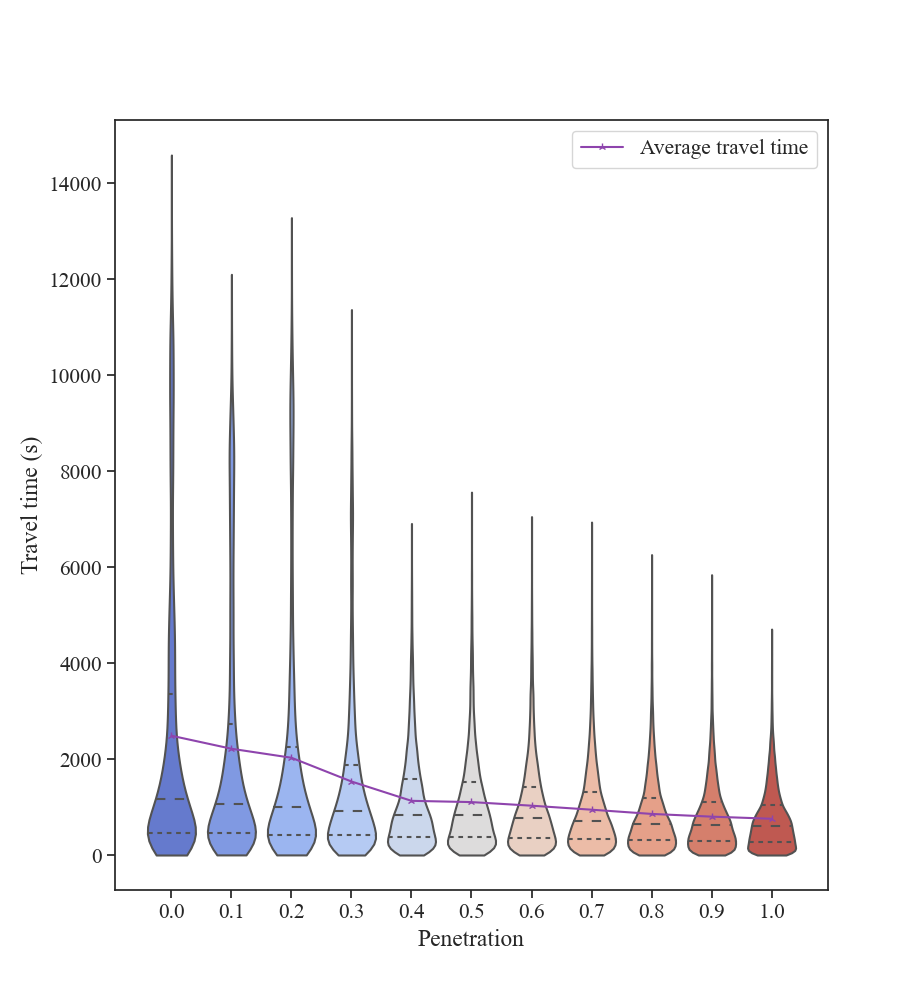
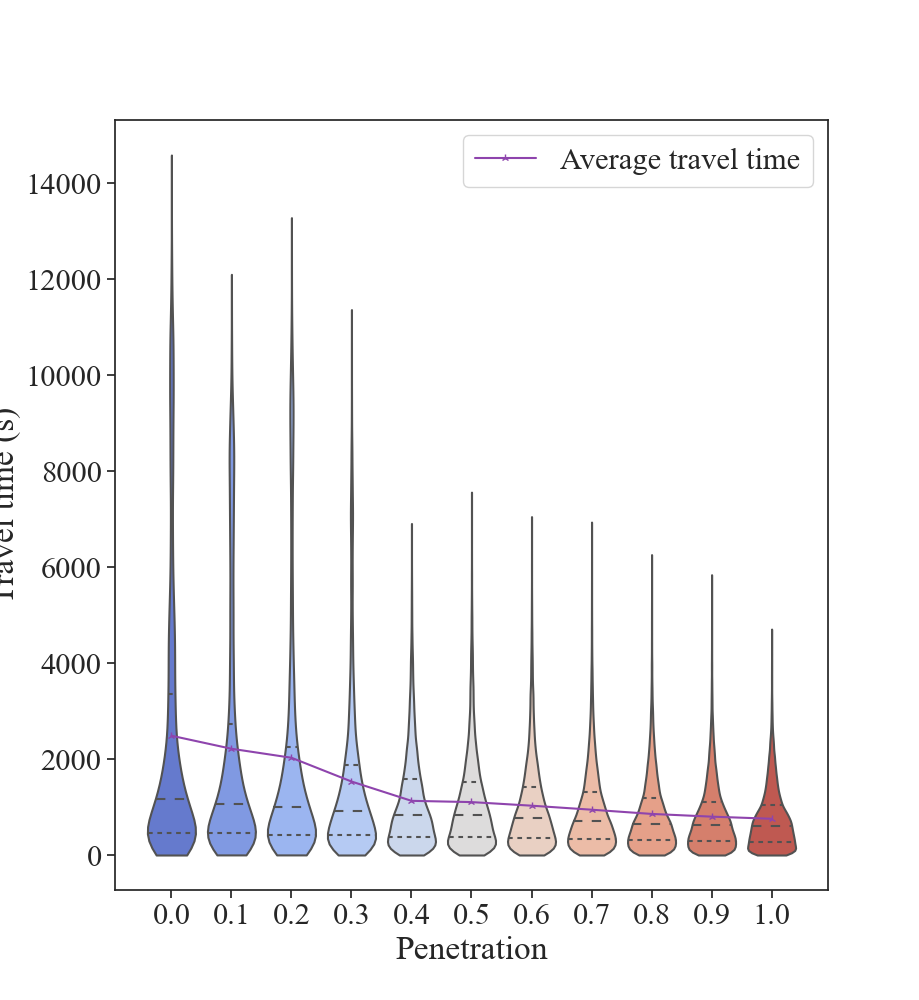
modify some pics

diff --git a/SUMOFiles/edgesDensity/pltEdgesDensity.py b/SUMOFiles/edgesDensity/pltEdgesDensity.py
@@ -3,7 +3,7 @@ from turtle import color
 import xml.etree.ElementTree as ET
 from matplotlib import pyplot as plt
 # plt.style.use('bmh')
-plt.rc('font',family='Times New Roman') 
+plt.rc('font',family='Times New Roman', size=20) 
 from collections import defaultdict
 import numpy as np
 
@@ -94,16 +94,16 @@ def pltshow(npRandomEMD, npARNMEMD, npPPPEMD):
     shadow1 = plt.fill_between(xx, zeroLine, diff_1, color='#45aaf2', alpha=0.5)
     plt.plot(xx, diff_2, color='#e67e22')
     shadow2 = plt.fill_between(xx, zeroLine, diff_2, color='#e67e22', alpha=0.5)
-    plt.legend([shadow1, shadow2], ['DD between duarouter and ARNM', 'DD between PPP and ARNM'])
+    plt.legend([shadow1, shadow2], ['duarouter - ARNM', 'PPP - ARNM'])
     plt.xlabel('Edges')
     plt.ylabel('Density difference (veh/km)')
     plt.subplots_adjust(hspace=0.05)
 
-    plt.savefig('DensityDiff.png', bbox_inches='tight', pad_inches=0.2)
+    plt.savefig('maxDensityDiff.png', bbox_inches='tight', pad_inches=0.2)
 
 
 if __name__ == '__main__':
-    # writeFile()
+    writeFile()
     npRandomEMD, npARNMEMD, npPPPEMD = readFile()
     # print(len(npRandomEMD))
-    pltshow(npRandomEMD[-1000:], npARNMEMD[-1000:], npPPPEMD[-1000:])
+    pltshow(npRandomEMD[-500:], npARNMEMD[-500:], npPPPEMD[-500:])

diff --git a/SUMOFiles/penetrationEXP/tripinfos/tripinfoProcess.py b/SUMOFiles/penetrationEXP/tripinfos/tripinfoProcess.py
@@ -1,7 +1,7 @@
 from cProfile import label
 import pandas as pd
 import seaborn as sns
-sns.set_theme(style="ticks",font='Times New Roman',font_scale=1.4)
+sns.set_theme(style="ticks",font='Times New Roman',font_scale=2.0)
 from matplotlib import pyplot as plt
 import numpy as np
 
@@ -68,7 +68,7 @@ ax_t.set_ylabel('Median (s)')
 # ax_t.bar_label(ttmedian, travelTimeMedians)
 # plt.title('Travel time')
 plt.legend([ttmean, ttmedian], ['Mean of travel time', 'Median of travel time'])
-plt.savefig('travelTimeBar.png')
+plt.savefig('travelTimeBar.png', bbox_inches='tight', pad_inches=0.2)
 plt.close()
 # plt.show()
 
@@ -88,7 +88,7 @@ ax_t.set_ylabel('Median (s)')
 # ax_t.bar_label(ttmedian, timeLossMedians)
 # plt.title('Time loss')
 plt.legend([ttmean, ttmedian], ['Mean of time loss', 'Median of time loss'])
-plt.savefig('timeLossBar.png')
+plt.savefig('timeLossBar.png', bbox_inches='tight', pad_inches=0.2)
 plt.close()
 # plt.show()
 

diff --git a/pathPlanner/TTFMsim.py b/pathPlanner/TTFMsim.py
@@ -110,7 +110,7 @@ if __name__ == '__main__':
 
 
     routesInfo = getRouInfo()
-    testTTFM = TTFM('lima', 10000, 5)
+    testTTFM = TTFM('lima', 20000, 5)
     TTFMRes(testTTFM, routesInfo)
 
     efiSUMO, efoSUMO = SUMOres()
